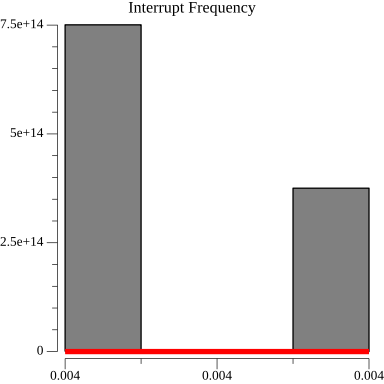
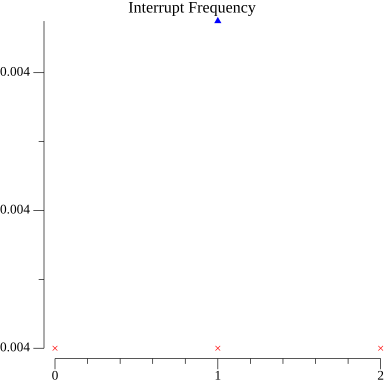
changed to a scatterplot, still a few bunk results

Changed region(s): [[0.0, 0.0312, 1.0, 1.0], [0.5625, 0.0312, 0.5938, 0.0625]]

diff --git a/app/generateReportHist.go b/app/generateReportHist.go
@@ -4,33 +4,39 @@ import (
 	"fmt"
 	"image/color"
 
-	"github.com/gonum/stat/distuv"
 	"gonum.org/v1/plot"
 	"gonum.org/v1/plot/plotter"
 	"gonum.org/v1/plot/vg"
+	"gonum.org/v1/plot/vg/draw"
 )
 
 func generateReportHist(data interruptData) (string, error) {
 	p := plot.New()
 	p.Title.Text = "Interrupt Frequency"
-	v := make(plotter.Values, len(data.triggerTimes))
 
-	for i := range v {
-		v[i] = data.triggerTimes[i]
+	pxys := make(plotter.XYs, len(data.triggerTimes))
+
+	for i, triggerTime := range data.triggerTimes {
+		pxys[i].X = float64(i)
+		pxys[i].Y = triggerTime
 	}
-
-	h, err := plotter.NewHist(v, len(v)+1)
+	s, err := plotter.NewScatter(pxys)
 	if err != nil {
 		return "", err
 	}
+	s.GlyphStyle.Shape = draw.CrossGlyph{}
+	s.Color = color.RGBA{R: 255, A: 255}
+	p.Add(s)
 
-	h.Normalize(1)
-	p.Add(h)
-
-	norm := plotter.NewFunction(distuv.UnitNormal.Prob)
-	norm.Color = color.RGBA{R: 255, A: 255}
-	norm.Width = vg.Points(float64(len(v) + 1))
-	p.Add(norm)
+	s, err = plotter.NewScatter(plotter.XYs{
+		{X: 1, Y: float64(data.smallestInterrupt)},
+	})
+	if err != nil {
+		return "", err
+	}
+	s.GlyphStyle.Shape = draw.PyramidGlyph{}
+	s.Color = color.RGBA{B: 255, A: 255}
+	p.Add(s)
 
 	if err := p.Save(4*vg.Inch, 4*vg.Inch, fmt.Sprintf("%s/frequency-%s.png", data.folderPath, data.sessionName)); err != nil {
 		return "", err
